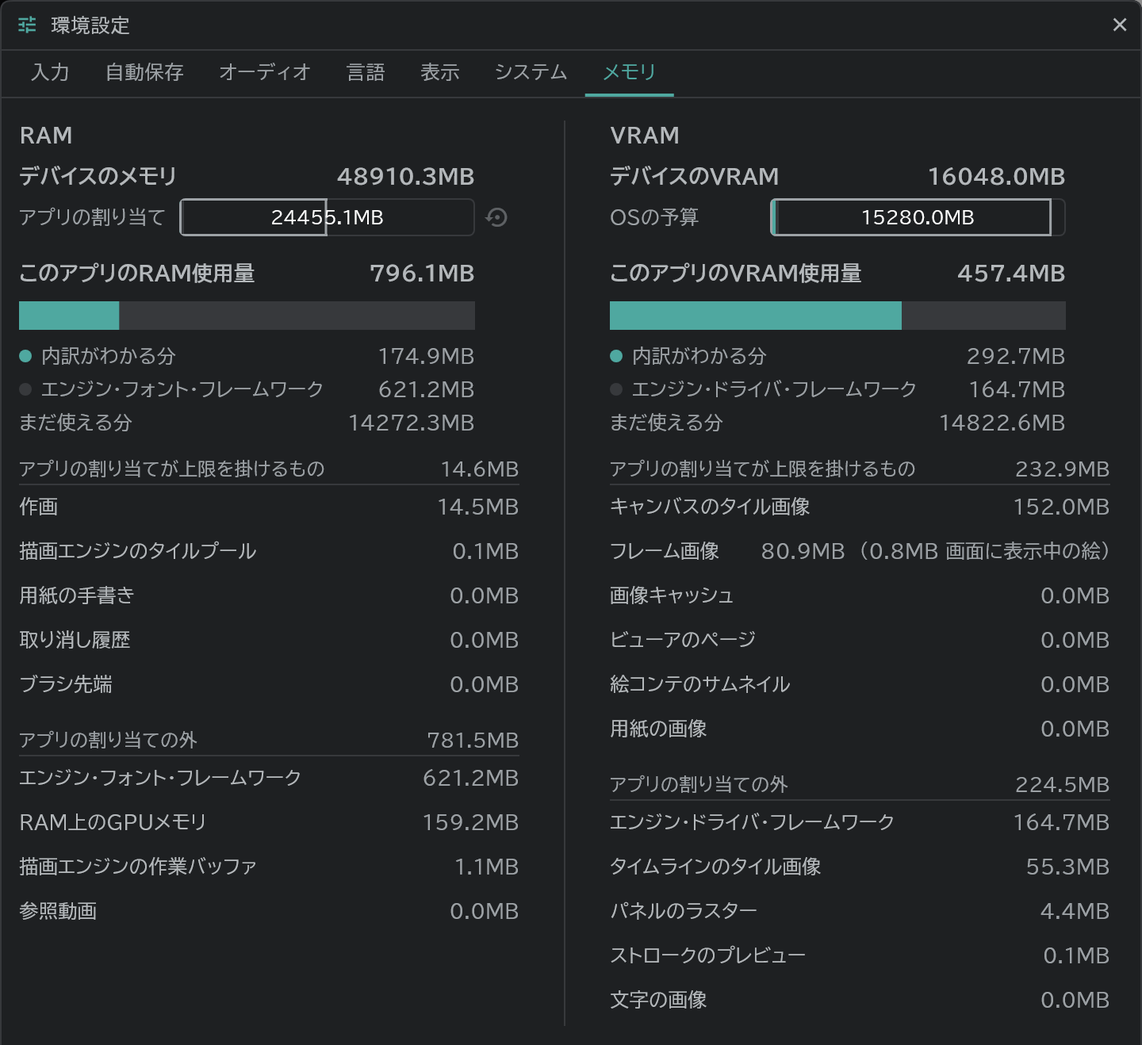
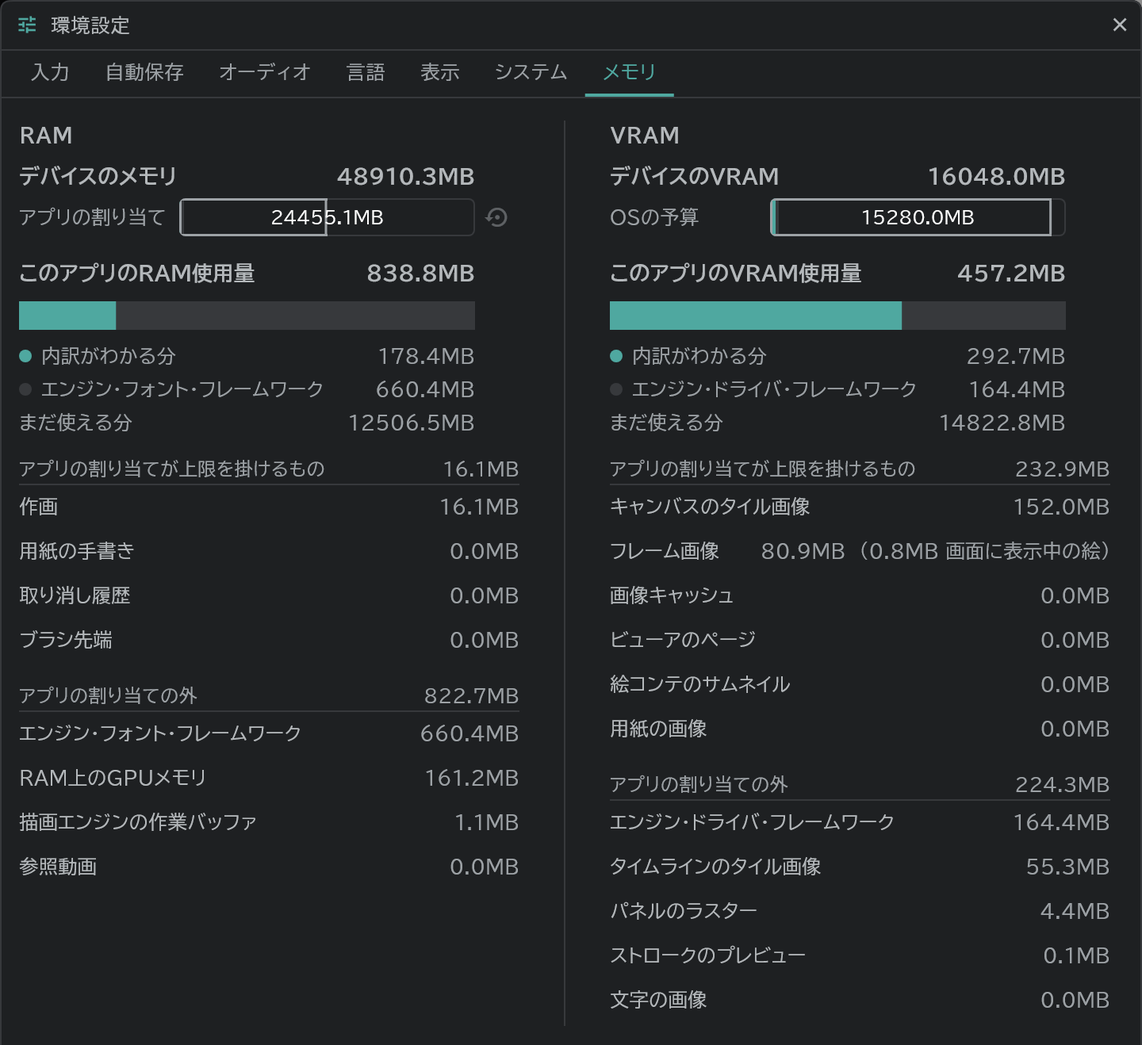
Publish the app's build 1096 on the site
The guide (test/guide_shots: ok) and the launch window's notes
(notes: build 1096), from the app's commit d86f5b420.

diff --git a/launch/latest/ja/whats_new.md b/launch/latest/ja/whats_new.md
@@ -2,47 +2,19 @@
 
 ## 新機能
 
-- **音の行のプリセット** — 音の行の Fx 一覧のいちばん上にプリセット(セリフ・音楽・効果音・環境音)が加わりました。選ぶとその音に合わせた効果のまとまり(イコライザー・コンプレッサーなど)が一度に掛かり、掛けたあとはその行のものなので値を変えられます。
-- **ノイズ除去** — 音の行の Fx メニューの音声の欄にノイズ除去が加わりました。値ひとつで、ノイズを除いた音をどれだけ混ぜるかを決めます。追加した直後は 0 なので音を変えません。44.1 kHz・96 kHz の音にも掛かります。
-- **プリセットに同期** — メディアプールでファイルの使用中マークを押して開くウィンドウに「プリセットに同期」が加わりました。すでに置いた場所のうち配置プリセットと違うところを選んで、開始・長さ・フィットなどの値をプリセットどおりにそろえ、「すべて適用」で違うところ全部を一度にそろえます。音・動画・画像のどれでも使えます。
-- **カンバスサイズに合わせて絵をフィット** — カンバスサイズのウィンドウと、カンバス上で調整するときのピルで、絵を新しいカンバスに「比率を保って伸ばす」・「比率を無視して伸ばす」で合わせられます。既定はこれまでどおり絵をそのままにします。
-- **複数カットのカンバスサイズ** — カットブロックを複数選んでカンバスサイズを変えると、選んだカットがすべて一度に変わります。元に戻すも一回です。
-- **レイヤーの種類の切り替え** — 絵の行の種類アイコンを押すと、画像・アニメーション・絵コンテの間で行の種類を切り替えます。その行がなれない種類は無効で表示されます。複数の行を選んだまま押すと、選んだ行すべてが切り替わります。レイヤーメニューにあった絵コンテの切り替えは、このボタンに移しました。
-- **前エッジで間引く** — フレームブロックの前エッジを後ろへ引くと、引いたコマ数に応じてブロックを間引きます(1コマなら 1・3・5・7…、2コマなら 1・4・7…)。コンテパネルでカットの前エッジをカットの終わりの先まで引くと、そのカットが削除されます。
-- **スタンプの間隔** — スタンプツールの設定に「間隔」が加わりました。切り取った絵の大きさに対する割合で、既定は絵ひとつぶんです。
-- **セル書き出しの動画のサイズ** — 書き出しウィンドウのセルタブの動画に「サイズ」(カメラ・キャンバス)が加わりました。既定はカメラです。
-- **XDTS の対象** — タイムシート書式で XDTS を選ぶと、その下で書き出す対象(原画・動画)を選べます。片方だけ選ぶと、そちらだけを書き出します。
+- **入力インスペクタの Wintab 記録** — Windows で Wintab からペンを受け取り始めるときにたどった段階が、入力インスペクタ(Debug メニュー)に残ります。ペンが止まったときは、その記録でどこで止まったかを確かめられます。
 
 ## 改善
 
-- **軽くなったアプリ** — 再生用の絵を先に焼いているあいだ(緑の帯がたまるあいだ)操作が引っかかる問題、タイムラインでホイールを回したりレイヤーの目を切り替えたりするときの重さ、線を描くたびにグラフィックエンジンを待っていた分を減らしました。セル番号 fx の掛かったカット、fx の値をドラッグしているあいだ、大きな .anicel を開くときの最後の止まり、.tvpp を開いているあいだも軽くなりました。プロジェクトを開いて最初にフレームを選んだときに、タイムラインをまるごと描き直していた問題もなくしました。
-- **ブラーの値のドラッグ** — ブラーの値をドラッグし始めたときに画面が一瞬止まる問題を減らし、ドラッグ中も引っかかりにくくなりました。
-- **一時メモリ** — ブラーなどのエフェクトの値をドラッグしているあいだと、フォルダ内の複数の行を変形ボックスでドラッグしているあいだ、グラフィックエンジンが一歩ごとに一時メモリを作り直さずに使い回します。手を止めると、その一時メモリをすべて返します。
-- **変形ボックスを開く** — Ctrl+T で変形ボックスを開くときに、グラフィックエンジンを待つ回数とマスを何度も調べ直す処理を減らしました。
-- **色を選んでいるあいだ** — レーンと用紙・背景・ペーストボードのカラーホイールを回しているあいだは色がすぐに見え、ウィンドウを閉じたときに一度だけ記録されます。元に戻すも一回です。
-- **スタンプのドラッグ** — ドラッグして並べたスタンプは Ctrl+Z 一回ですべて戻ります。複数のセルにまたがるスタンプは待機ウィンドウの裏で置きます。
-- **連続塗りとスタンプのドラッグ** — 画面が一瞬止まっても、そのあいだに通った領域を漏らさず塗り、スタンプの列も通った道をそのままたどります。
-- **コンテ用紙のカメラ指示** — 2つのパネルにまたがるカメラワークは、パネルごとに自分の区間を書きます(例: 1f-73f T.B・74f-144f T.B)。パネルがひとつのカットは、タイムシートと同じ言葉でカット全体を書きます。
-- **セルの書き出し** — 名前のない絵コンテのブロックも、次の空いている番号でファイル名を付けて書き出します(プロジェクトのブロック名はそのままです)。カラーラベルで絞り込むと、ラベルのない行は書き出しリストから外れます。書き出しウィンドウの折りたたみ欄は、はじめから開いています。
-- **床のパネルの表示ショートカット** — 床に敷いたタイムシートやビューアーでも、拡大・縮小・回転のショートカットが効きます。
-- **S 行への貼り付け** — 通常のレイヤーでコピーしたフレームは S 行に、S 行でコピーしたものは通常のレイヤーに貼り付けません。そのときは貼り付けボタンが無効になります。
-- **TVPaint の読み込み** — .tvpp に記録された場所に音のファイルがないときは、そのファイルのフォルダーの下から探して読み込みます。ハングル・かななどのレイヤーのインスタンス名がそのまま入り、レイヤーの合成モード(乗算など)も読み込みます。
-- **グラフィックデバイスが止まったとき** — Windows で画面を描くグラフィックデバイスが止まると、「保存して再起動」・「保存せずに終了」・閉じる、から選ぶウィンドウが出ます。
-- **メディアプールのスクロールバー** — メディアプールのスクロールバーが、リスト表示・アイコン表示のどちらでも常に表示されます。
-- **ツールの一覧** — ツール設定パネルのツール名は1行で表示し、入りきらないときは省略記号で縮めます。縮めた名前はツールチップで全部見られます。
+- **初回起動時のアプリ準備** — 新しいビルドを初めて起動したときに長くなっていた「アプリ準備」の画面が、11月13日ごろの長さに戻りました。2回目以降の起動はこれまでどおり短いままです。
+- **読み込んだ絵のメモリ** — .tvpp などを読み込むと、絵が届くそばからセッション作業領域(ディスク)に下ろされ、RAM を空けます。キャンバスが立っているフレームの絵はそのまま残します。絵が220枚の .tvpp を開いておくと、「このアプリのRAM使用量」が 2.26 GB から 0.96 GB になりました(メイン PC)。そのかわり読み込みが2秒ほど長くかかります。
+- **直したセルのメモリ** — ファイルを開いたあと緑の帯が一度たまったフレームのセルに線を引くと、メモリタブの「作画」はセル1枚分ではなく、引いた部分の分だけ増えます。ファイルを開いたときに立っていたフレームのセルは、まだこれまでと同じです。
+- **たくさん直したあとの保存** — セルをたくさん直したあとの保存中に、アプリのメモリが大きく増えていたのを抑えました。セル220枚を直したあとの保存で 2.0–2.3 GB 増えていたものが、0.64 GB ほどの増加になります(メイン PC)。
+- **タイルプール** — 描画エンジンは手放したタイルのメモリを使い回すために溜めておかず、すぐに返します。メモリタブの「描画エンジンのタイルプール」の行はなくなりました。
+- **フォント** — グラフィックエンジンがアプリに入っているフォントファイルをコピーせず、その場で読みます。Windows で「このアプリのRAM使用量」が約 24 MB 減りました。Android はこれまでと同じです。
+- **フレーム画像** — 手を止めると再生用のフレーム画像もたたんでグラフィックメモリを減らし、メモリタブの「フレーム画像」の行は実際に持っている大きさを示します。たたんで空いた分だけ緑の帯がさらにたまります。
+- **ショートカットのコマンドキー** — どの機器にどのキーボードをつないでも、ショートカットのコマンドキーは Ctrl で押しても ⌘(Windows キーボードでは Win キー)で押しても同じ動作をします。設定はいりません。Mac でも Ctrl+Z で取り消せます。
 
 ## 不具合の修正
 
-- 変形ボックスの操作を元に戻すですべて戻しても変更が残り、選択の点線が赤いまま残る問題を修正しました。
-- 取り消し履歴が上限まで埋まったあと、スタンプのドラッグのような何段階にも分かれる操作が一回で戻らない問題を修正しました。
-- スタンプをドラッグして置くとき、最後のスタンプが抜ける問題を修正しました。
-- 複数のブロックを選んでコマを伸ばすなど、まとめて編集したときに選択の四角がブロックについてこない問題を修正しました。
-- 編集で緑の帯が空いた場所へフレームを移すと、絵は見えるのに帯がたまり直さない問題を修正しました。
-- カンバスサイズの変更で基準点が動くとき、効果の点(放射ブラーの中心・セル番号の位置など)が絵についてこない問題を修正しました。
-- ブラーの値をドラッグしているあいだメモリが数 GB ずつ増え、ブラーを消しても戻らない問題を修正しました。
-- 書き出しウィンドウのプレビューでフレームを移すと次の絵が来るまで黒い画面が見える問題、出たばかりの読み込みリングが小さな点に見える問題を修正しました。
-- 書き出しウィンドウで XDTS のシートを動画だけにすると、空の画面に見える問題を修正しました。
-- ノイズ抑制をオンにして録音したテイクが少し遅れて置かれ、口の動きとずれる問題を修正しました。
-- 複数のブロックの色を消すとき、進行ウィンドウが止まって見える問題を修正しました。いまはパーセントが進みます。
-- メディアプールのリストを横の端までスクロールしたままパネルを広げると、欄とスクロールバーがずれたまま残る問題を修正しました。
-- サブツールの一覧を開いたままだと、ツール設定パネルの下の行(連続塗り・グラデーションなど)が切れてスクロールしても届かない問題を修正しました。
+- ビューアを出したまま別のプロジェクトタブ(既存のタブ・Ctrl+N で作ったタブ)に移って戻ると、ページ番号はそのままなのに絵は最初のページが見えていた問題を修正しました。メイン・サブのどちらのビューアも、見ていたページとズームのまま戻ります。

diff --git a/launch/latest/fr/whats_new.md b/launch/latest/fr/whats_new.md
@@ -2,47 +2,19 @@
 
 ## Nouveau
 
-- **Préréglages des lignes de son** — le haut de la liste Fx d'une ligne de son propose des préréglages (Dialogue, Musique, Effets sonores, Ambiance). En choisir un pose d'un coup sur la ligne un ensemble d'effets accordé à ce son (un égaliseur, un compresseur, etc.) ; ensuite, ils appartiennent à la ligne et leurs valeurs se modifient.
-- **Réduction du bruit** — la section Audio du menu Fx d'une ligne de son gagne la Réduction du bruit. Une seule valeur règle la part du son nettoyé que l'on entend ; tout juste ajoutée, elle vaut 0 et ne change pas le son. Elle fonctionne aussi sur des sons à 44,1 kHz et 96 kHz.
-- **Synchroniser au préréglage** — la fenêtre qu'ouvre la marque « en usage » d'un fichier dans la médiathèque gagne « Synchroniser au préréglage ». Choisissez parmi les emplacements déjà posés ceux qui diffèrent du préréglage de placement du fichier pour ramener le début, la durée, l'ajustement, etc. au préréglage, ou utilisez « Appliquer à tous » pour tous ceux qui diffèrent. Cela marche pour les sons, les vidéos et les images.
-- **Ajuster l'image à la nouvelle taille du canevas** — la fenêtre Taille du canevas, et la pastille de l'ajustement sur le canevas, peuvent ajuster l'image au nouveau canevas avec « Ajuster, proportions gardées » ou « Étirer, proportions ignorées ». Par défaut, l'image reste telle quelle, comme avant.
-- **Taille du canevas de plusieurs plans** — sélectionnez plusieurs blocs de plan et changez la taille du canevas : tous les plans sélectionnés changent d'un coup, en une seule annulation.
-- **Changer le type d'un calque** — appuyez sur l'icône de type d'une ligne d'image pour la faire passer entre Image, Animation et Storyboard. Un type que la ligne ne peut pas prendre est affiché désactivé. Appuyé parmi plusieurs lignes sélectionnées, il les change toutes. La bascule storyboard du menu Calque est passée à ce bouton.
-- **Éclaircir avec le bord avant** — tirer vers l'arrière le bord avant d'un bloc d'images éclaircit les blocs selon le nombre d'images tirées (une image : 1, 3, 5, 7… ; deux images : 1, 4, 7…). Dans le panneau de conte, tirer le bord avant d'un plan au-delà de sa fin supprime le plan.
-- **Espacement du tampon** — les réglages de l'outil Tampon gagnent un Espacement, en part de la taille du morceau ; un morceau entier par défaut.
-- **Taille des vidéos de l'export des cellulos** — les vidéos de l'onglet Cellulos de la fenêtre d'export gagnent une Taille (Caméra, Canevas). Caméra par défaut.
-- **Cible XDTS** — avec XDTS choisi dans le format de feuille d'exposition, la cible à exporter (animation clé, intervalles) se choisit en dessous. Si vous n'en choisissez qu'une, seule celle-ci est écrite.
+- **Le relevé Wintab dans l'Inspecteur d'entrée** — sous Windows, les étapes par lesquelles l'application est passée en commençant à recevoir le stylet par Wintab sont gardées dans l'Inspecteur d'entrée (menu Debug). Si le stylet s'arrête, ce relevé montre où il s'est arrêté.
 
 ## Améliorations
 
-- **Une application plus légère** — moins d'à-coups pendant le précalcul des images de lecture (pendant que la bande verte se remplit), une molette et des bascules d'œil de calque plus légères sur la timeline, et plus d'attente du moteur graphique à chaque trait. Les plans avec un fx de numéro de cellulo, le glissement d'une valeur de fx, l'arrêt à la fin de l'ouverture d'un gros .anicel et l'ouverture d'un .tvpp sont aussi plus légers. Le premier choix d'image après l'ouverture d'un projet ne redessine plus toute la timeline.
-- **Glisser une valeur de flou** — l'écran se fige moins quand on commence à faire glisser une valeur de flou, et moins pendant le glissement.
-- **Mémoire temporaire** — pendant le glissement d'une valeur d'effet comme le flou, et pendant le glissement de plusieurs lignes d'un dossier avec la boîte de transformation, le moteur graphique réutilise sa mémoire temporaire au lieu de la recréer à chaque pas, et la rend entièrement dès que la main se repose.
-- **Ouvrir la boîte de transformation** — ouvrir la boîte de transformation avec Ctrl+T attend moins souvent le moteur graphique et parcourt moins de fois les cellules.
-- **Pendant le choix d'une couleur** — tourner la roue chromatique d'une piste, ou celle du papier, de l'arrière-plan ou du Fond, montre la couleur à mesure et ne l'enregistre qu'une fois, à la fermeture de la fenêtre, en une seule annulation.
-- **Tampons par glissement** — une rangée de tampons posée d'un seul glissement s'annule d'un seul Ctrl+Z. Les tampons sur plusieurs cellulos se posent derrière la fenêtre d'attente.
-- **Remplissage continu et tampons par glissement** — même si l'écran se fige un instant, chaque zone traversée entre-temps est remplie, et la rangée de tampons suit le chemin tel qu'il a été tracé.
-- **Instructions de caméra sur le papier de conte** — un mouvement de caméra partagé par deux cases est écrit dans chaque case pour sa propre part (par exemple 1f-73f T.B et 74f-144f T.B). Un plan d'une seule case écrit le plan entier avec les mêmes mots que sa feuille d'exposition.
-- **Export des cellulos** — un bloc de storyboard sans nom s'exporte quand même, sous le prochain numéro libre (le nom du bloc dans le projet ne change pas). Filtrer par étiquette de couleur retire de la liste d'export les lignes sans étiquette. Les sections repliables de la fenêtre d'export commencent ouvertes.
-- **Raccourcis d'affichage sur le panneau de fond** — les raccourcis de zoom et de rotation fonctionnent aussi sur une feuille d'exposition ou une visionneuse posée au fond.
-- **Coller dans les lignes S** — des images copiées d'un calque ordinaire ne se collent pas dans une ligne S, ni celles d'une ligne S dans un calque ordinaire ; les boutons de collage se désactivent alors.
-- **Import TVPaint** — quand un fichier son n'est pas à l'endroit enregistré dans le .tvpp, il est cherché sous le dossier du fichier. Les noms d'instance de calque en hangeul, en kana ou en d'autres lettres arrivent tels quels, et le mode de fusion de chaque calque (Produit, etc.) aussi.
-- **Quand le périphérique graphique s'arrête** — sous Windows, si le périphérique graphique qui dessine l'écran s'arrête, une fenêtre propose « Enregistrer et redémarrer », « Quitter sans enregistrer » ou fermer.
-- **Barres de défilement de la médiathèque** — les barres de défilement de la médiathèque sont toujours affichées, en vue liste comme en vue icônes.
-- **La liste des outils** — les noms d'outils du panneau des réglages de l'outil tiennent sur une ligne, coupés par des points de suspension s'ils ne tiennent pas ; l'infobulle montre le nom entier.
+- **Préparation de l'application au premier lancement** — la fenêtre « Préparation de l'application », qui s'était allongée au premier lancement d'une nouvelle version, retrouve à peu près sa durée d'autour du 13 novembre. Les lancements suivants restent courts comme avant.
+- **Mémoire des dessins importés** — à l'import d'un fichier comme un .tvpp, chaque dessin est déposé dans l'Espace de session (le disque) dès son arrivée et libère sa RAM. Les dessins de l'image sur laquelle se tient le canevas restent tels quels. Avec un .tvpp de 220 dessins ouvert, « Cette application, en RAM » est passée de 2,26 Go à 0,96 Go (le PC principal). En échange, l'import prend environ deux secondes de plus.
+- **Mémoire d'un cellulo modifié** — après l'ouverture d'un fichier, un trait sur un cellulo d'une image que la bande verte a remplie une fois ne fait grandir « Dessins » dans l'onglet mémoire que de la partie tracée, et non du cellulo entier. Les cellulos de l'image où l'on se tenait à l'ouverture du fichier restent comme avant pour l'instant.
+- **Enregistrer après de nombreuses retouches** — la mémoire de l'application monte beaucoup moins pendant l'enregistrement après la retouche de nombreux cellulos. L'enregistrement après la retouche de 220 cellulos montait de 2,0 à 2,3 Go ; il monte maintenant d'environ 0,64 Go (le PC principal).
+- **Réserve de tuiles** — le moteur de dessin ne met plus de côté la mémoire des tuiles qu'il a libérées pour la réutiliser, et la rend tout de suite. La ligne « Réserve de tuiles du moteur de dessin » de l'onglet mémoire a disparu.
+- **Polices** — le moteur graphique lit les polices fournies avec l'application là où elles se trouvent, sans en garder une copie. Sous Windows, « Cette application, en RAM » a baissé d'environ 24 Mo. Android reste comme avant.
+- **Images composées** — dès que la main se repose, les images composées de la lecture sont elles aussi repliées et prennent moins de mémoire graphique, et la ligne « Images composées » de l'onglet mémoire montre la taille qu'elles occupent vraiment. La bande verte se remplit d'autant plus dans la place libérée.
+- **La touche de commande des raccourcis** — quel que soit le clavier branché sur quel appareil, la touche de commande d'un raccourci fait la même chose qu'on l'appuie en Ctrl ou en ⌘ (la touche Win d'un clavier Windows). Il n'y a rien à régler. Ctrl+Z annule aussi sur Mac.
 
 ## Corrections
 
-- Après avoir annulé chaque étape d'une boîte de transformation, une modification restait retenue et le contour de la sélection restait rouge.
-- Une fois l'historique d'annulation plein, les gestes faits de plusieurs étapes, comme un glissement de tampons, ne s'annulaient plus en une fois.
-- Un glissement de tampons pouvait perdre le dernier tampon.
-- En modifiant plusieurs blocs sélectionnés à la fois, par exemple en allongeant leurs images, le rectangle de sélection ne suivait pas les blocs.
-- Aller sur une image dont une modification avait vidé la bande verte montrait l'image, mais la bande ne se remplissait plus.
-- Quand un changement de taille du canevas déplaçait l'ancre, les points des effets (le centre d'un flou radial, la place d'un numéro de cellulo, etc.) ne suivaient pas l'image.
-- Faire glisser une valeur de flou faisait grimper la mémoire de plusieurs gigaoctets, qui ne revenait pas une fois le flou retiré.
-- Dans l'aperçu de la fenêtre d'export, passer d'une image à l'autre montrait un écran noir jusqu'à l'image suivante, et un nouvel anneau de chargement apparaissait comme un petit point.
-- Dans la fenêtre d'export, une feuille XDTS avec seulement les intervalles choisis s'affichait comme un écran vide.
-- Une prise enregistrée avec la réduction du bruit activée était posée un peu en retard, décalée de la bouche.
-- Supprimer des couleurs sur plusieurs blocs donnait une fenêtre de progression qui semblait figée ; le pourcentage se remplit désormais.
-- Élargir le panneau pendant que la liste de la médiathèque était défilée jusqu'au bout laissait les colonnes et la barre de défilement décalées.
-- Avec la liste des sous-outils ouverte, les lignes du bas du panneau des réglages de l'outil (remplissage continu, dégradé, etc.) étaient coupées et inaccessibles au défilement.
+- Avec une visionneuse ouverte, aller dans un autre onglet de projet (un onglet existant ou un onglet créé avec Ctrl+N) puis revenir gardait le numéro de page mais montrait l'image de la première page. Les visionneuses principale et secondaire reviennent maintenant à la page et au zoom qu'elles montraient.

diff --git a/launch/latest/ko/whats_new.md b/launch/latest/ko/whats_new.md
@@ -2,47 +2,19 @@
 
 ## 새 기능
 
-- **소리 행 프리셋** — 소리 행 Fx 목록 맨 위에 프리셋(대사 · 음악 · 효과음 · 환경음)이 생겼습니다. 고르면 그 소리에 맞춘 효과 묶음(이퀄라이저 · 컴프레서 등)이 한 번에 걸리고, 건 뒤로는 그 행의 것이라 값을 고칠 수 있습니다.
-- **노이즈 제거** — 소리 행 Fx 메뉴의 오디오 칸에 노이즈 제거가 생겼습니다. 값 하나로 잡음을 지운 소리를 얼마나 섞을지 정하며, 막 추가했을 때는 0 이라 소리를 바꾸지 않습니다. 44.1 kHz · 96 kHz 소리에도 겁니다.
-- **프리셋에 동기화** — 미디어 풀에서 파일의 사용 중 표시를 누르면 열리는 창에 「프리셋에 동기화」가 생겼습니다. 이미 놓은 자리 가운데 배치 프리셋과 다른 곳을 골라 시작 · 길이 · 맞춤 같은 값을 프리셋대로 맞추고, 「모두 적용」으로 다른 곳 전부를 한 번에 맞춥니다. 소리 · 동영상 · 그림 모두 됩니다.
-- **캔버스 크기와 함께 그림 맞추기** — 캔버스 크기 창과 캔버스에서 조정하는 알약에서, 그림을 새 캔버스에 「비율 유지 늘림」 · 「비율 무시 늘림」으로 맞출 수 있습니다. 기본은 지금처럼 그림을 그대로 둡니다.
-- **여러 컷의 캔버스 크기** — 컷 블록 여러 개를 고르고 캔버스 크기를 바꾸면 고른 컷이 전부 한 번에 바뀝니다. 되돌리기도 한 번입니다.
-- **레이어 종류 바꾸기** — 그림 행의 종류 아이콘을 누르면 이미지 · 애니메이션 · 콘티 사이에서 행의 종류를 바꿉니다. 그 행이 될 수 없는 종류는 꺼져 보입니다. 여러 행을 고른 채 누르면 고른 행 전부가 바뀝니다. 레이어 메뉴에 있던 콘티 전환은 이 버튼으로 옮겼습니다.
-- **앞엣지로 솎아내기** — 프레임 블록의 앞엣지를 뒤로 당기면 당긴 칸 수만큼 블록을 솎아냅니다(1칸이면 1 · 3 · 5 · 7…, 2칸이면 1 · 4 · 7…). 콘티 패널에서 컷의 앞엣지를 컷 끝 너머로 당기면 그 컷이 지워집니다.
-- **스탬프 간격** — 스탬프 도구 설정에 「간격」이 생겼습니다. 조각 크기에 대한 비율이고, 기본은 조각 하나입니다.
-- **셀 출력 동영상의 크기** — 출력 창 셀 탭의 동영상에 「크기」(카메라 · 캔버스)가 생겼습니다. 기본은 카메라입니다.
-- **XDTS 의 대상** — 타임시트 서식에서 XDTS 를 고르면 그 아래에서 내보낼 대상(원화 · 동화)을 고릅니다. 하나만 고르면 그 쪽만 냅니다.
+- **입력 인스펙터의 Wintab 기록** — Windows 에서 Wintab 으로 펜을 받기 시작할 때 거친 단계가 입력 인스펙터(Debug 메뉴)에 남습니다. 펜이 멈추면 그 기록으로 어디서 섰는지 볼 수 있습니다.
 
 ## 개선
 
-- **가벼워진 앱** — 재생 그림을 미리 굽는 동안(초록 띠가 차는 동안) 조작이 걸리던 것, 타임라인에서 휠을 굴리거나 레이어 눈을 켜고 끌 때 무겁던 것, 획을 그을 때마다 그래픽 엔진을 기다리던 것을 줄였습니다. 셀 번호 fx 가 걸린 컷, fx 값을 끄는 동안, 큰 .anicel 을 열 때 끝의 멈춤, .tvpp 를 여는 동안도 가벼워졌습니다. 프로젝트를 열고 처음 프레임을 고를 때 타임라인을 통째로 다시 그리던 것도 없앴습니다.
-- **블러 값 끌기** — 블러 값을 끌기 시작할 때 화면이 멈칫하던 것을 줄였고, 끄는 동안에도 덜 걸립니다.
-- **임시 메모리** — 블러 같은 효과 값을 끄는 동안과 폴더 안의 여러 행을 변형 상자로 끄는 동안, 그래픽 엔진이 걸음마다 임시 메모리를 새로 만들지 않고 다시 씁니다. 손을 쉬면 그 임시 메모리를 모두 돌려줍니다.
-- **변형 상자 열기** — Ctrl+T 로 변형 상자를 열 때 그래픽 엔진을 기다리던 횟수와 칸을 거듭 훑던 일을 줄였습니다.
-- **색을 고르는 동안** — 레인과 용지 · 배경 · 페이스트보드의 컬러 휠을 돌리는 동안 색이 바로 보이고, 창을 닫을 때 한 번만 기록됩니다. 되돌리기도 한 번입니다.
-- **스탬프 끌기** — 끌어서 늘어놓은 스탬프는 Ctrl+Z 한 번에 다 되돌아갑니다. 여러 셀에 걸친 스탬프는 대기 창 뒤에서 놓습니다.
-- **연속 채우기와 스탬프 끌기** — 화면이 잠깐 멈춰도 그 사이 지나간 칸을 빠짐없이 칠하고, 스탬프 줄도 지나간 길을 그대로 따릅니다.
-- **콘티 용지의 카메라 지시** — 두 패널에 걸친 카메라 워크는 패널마다 제 구간을 적습니다(예: 1f-73f T.B · 74f-144f T.B). 패널이 하나인 컷은 타임시트와 같은 말로 컷 전체를 적습니다.
-- **셀 출력** — 이름 없는 콘티 블록도 다음 빈 번호로 파일 이름을 붙여 냅니다(프로젝트의 블록 이름은 그대로입니다). 색 라벨로 거르면 라벨 없는 행은 출력 목록에서 빠집니다. 출력 창의 접는 칸은 처음부터 펼쳐져 있습니다.
-- **바닥 패널의 보기 단축키** — 바닥에 깐 타임시트나 뷰어에서도 확대 · 축소 · 회전 단축키가 듣습니다.
-- **S 행 붙여넣기** — 일반 레이어에서 복사한 프레임은 S 행에, S 행에서 복사한 것은 일반 레이어에 붙여넣지 않습니다. 그럴 때는 붙여넣기 버튼이 꺼집니다.
-- **TVPaint 가져오기** — .tvpp 에 적힌 자리에 소리 파일이 없으면 그 파일의 폴더 아래에서 찾아 넣습니다. 한글 · 가나 같은 레이어 인스턴스 이름이 그대로 들어오고, 레이어의 블렌드 모드(곱하기 등)도 들어옵니다.
-- **그래픽 장치가 멈췄을 때** — Windows 에서 화면을 그리는 그래픽 장치가 멈추면 「저장하고 다시 시작」 · 「저장하지 않고 종료」 · 닫기 가운데 하나를 고르는 창이 뜹니다.
-- **미디어 풀 스크롤바** — 미디어 풀의 스크롤바가 리스트 보기 · 아이콘 보기 모두 늘 보입니다.
-- **도구 목록** — 툴 설정 패널의 도구 이름이 한 줄에 서고, 넘치면 말줄임표로 줄입니다. 줄인 이름은 툴팁으로 다 보입니다.
+- **처음 켤 때의 앱 준비** — 새 빌드를 처음 켤 때 길어졌던 「앱 준비」 창이 11월 13일 무렵 길이로 돌아왔습니다. 두 번째 실행부터는 전처럼 짧습니다.
+- **들여온 그림의 메모리** — .tvpp 같은 파일을 들여오면 그림이 들어오는 대로 세션 작업 공간(디스크)으로 내려가고 RAM 을 놓습니다. 캔버스가 서 있는 프레임의 그림은 그대로 둡니다. 그림 220장짜리 .tvpp 를 열어 두면 「이 앱이 쓰는 RAM」이 2.26 GB 에서 0.96 GB 가 됐습니다(메인 PC). 대신 들여오기가 2초쯤 더 걸립니다.
+- **고친 셀의 메모리** — 파일을 연 뒤 초록 띠가 한 번 찬 프레임의 셀에 획을 그으면, 메모리 탭의 「그림」이 셀 한 장만큼이 아니라 그은 부분만큼만 늡니다. 파일을 열 때 서 있던 프레임의 셀은 아직 전과 같습니다.
+- **많이 고친 뒤의 저장** — 셀을 많이 고친 뒤 저장하는 동안 앱의 메모리가 크게 오르던 것을 줄였습니다. 셀 220장을 고친 뒤 저장할 때 2.0–2.3 GB 오르던 것이 0.64 GB 쯤 오릅니다(메인 PC).
+- **타일 풀** — 그리기 엔진이 놓은 타일 메모리를 다시 쓰려고 쌓아 두지 않고 바로 돌려줍니다. 메모리 탭의 「그리기 엔진 타일 풀」 줄은 없어졌습니다.
+- **글꼴** — 그래픽 엔진이 앱에 든 글꼴 파일을 복사해 두지 않고 그 자리에서 읽습니다. Windows 에서 「이 앱이 쓰는 RAM」이 약 24 MB 줄었습니다. 안드로이드는 전과 같습니다.
+- **프레임 이미지** — 손을 쉬면 재생용 프레임 이미지도 접어 그래픽 메모리를 줄이고, 메모리 탭의 「프레임 이미지」 줄은 실제로 쥔 크기를 보입니다. 접어서 생긴 자리만큼 초록 띠가 더 찹니다.
+- **단축키의 명령 키** — 어느 기기에 어느 키보드를 붙여도, 단축키의 명령 키를 Ctrl 로 눌러도 ⌘(Windows 키보드의 Win 키)로 눌러도 같은 일을 합니다. 설정은 따로 없습니다. 맥에서도 Ctrl+Z 가 실행 취소입니다.
 
 ## 버그 수정
 
-- 변형 상자의 걸음을 실행 취소로 다 되돌렸는데도 바뀐 것이 남아 선택 점선이 빨갛게 남던 것을 고쳤습니다.
-- 되돌리기 기록이 상한까지 찬 뒤에는 스탬프 끌기 같은 여러 걸음 조작이 한 번에 되돌아가지 않던 것을 고쳤습니다.
-- 스탬프를 끌어 놓을 때 끝의 도장이 빠지던 것을 고쳤습니다.
-- 여러 블록을 고르고 코마를 늘리는 식으로 한꺼번에 고칠 때 선택 사각형이 블록을 따라가지 않던 것을 고쳤습니다.
-- 편집으로 초록 띠가 비워진 자리로 프레임을 옮기면 그림은 보이는데 띠가 다시 차지 않던 것을 고쳤습니다.
-- 캔버스 크기를 바꿔 기준점이 옮겨질 때 효과의 점(방사형 흐림의 중심 · 셀 번호 자리 등)이 그림을 따라가지 않던 것을 고쳤습니다.
-- 블러 값을 끄는 동안 메모리가 몇 GB 씩 늘고 블러를 지워도 돌아오지 않던 것을 고쳤습니다.
-- 출력 창 미리보기에서 프레임을 옮길 때 다음 그림이 오기 전까지 검은 화면이 보이던 것, 새로 뜬 로딩 링이 작은 점으로 보이던 것을 고쳤습니다.
-- 출력 창에서 XDTS 시트를 동화만 고르면 빈 화면으로 보이던 것을 고쳤습니다.
-- 잡음 제거를 켜고 녹음한 테이크가 약간 늦게 놓여 입 모양과 어긋나던 것을 고쳤습니다.
-- 여러 블록의 색을 지울 때 진행 창이 멈춰 보이던 것을 고쳤습니다. 이제 퍼센트가 찹니다.
-- 미디어 풀 리스트를 옆으로 끝까지 민 채 패널을 넓히면 칸과 스크롤바가 밀린 채 남던 것을 고쳤습니다.
-- 세부 도구 목록을 연 채로 툴 설정 패널의 아래 행(연속 채우기 · 그라데이션 등)이 잘려 스크롤로도 닿지 않던 것을 고쳤습니다.
+- 뷰어를 띄운 채 다른 프로젝트 탭(있던 탭 · Ctrl+N 으로 만든 탭)에 갔다 돌아오면, 쪽 번호는 그대로인데 그림은 첫 쪽이 보이던 것을 고쳤습니다. 이제 메인 · 서브 뷰어 모두 보던 쪽과 줌 그대로 돌아옵니다.

diff --git a/launch/latest/en/whats_new.md b/launch/latest/en/whats_new.md
@@ -2,47 +2,19 @@
 
 ## New
 
-- **Sound row presets** — the top of a sound row's Fx list offers presets (Dialogue, Music, Sound effects, Ambience). Picking one puts a set of effects tuned for that sound (an equalizer, a compressor and so on) on the row at once; after that they are the row's own, and their values can be changed.
-- **Noise removal** — the Audio section of a sound row's Fx menu gains Noise removal. One value sets how much of the cleaned sound is heard; just added, it is 0 and leaves the sound unchanged. It works on 44.1 kHz and 96 kHz sound too.
-- **Sync to preset** — the window that opens from a file's in-use mark in the media pool gains "Sync to preset". Pick the places already laid that differ from the file's placement preset and bring values such as start, length and fit back to the preset, or use "Apply to all" for every place that differs. It works for sounds, movies and pictures alike.
-- **Fit the picture to a new canvas size** — the Canvas size window, and the pill when adjusting on the canvas, can fit the picture to the new canvas with "Fit, keep ratio" or "Stretch, ignore ratio". By default the picture stays as it is, as before.
-- **Canvas size for several cuts** — select several cut blocks and change the canvas size, and every selected cut changes at once, in one undo step.
-- **Changing a layer's kind** — press a picture row's kind icon to turn the row between Image, Animation and Storyboard. A kind the row cannot become is shown disabled. Press it among several selected rows and they all change. The Layer menu's storyboard toggle has moved to this button.
-- **Thinning with the lead edge** — pulling a frame block's lead edge backwards thins the blocks out by the frames pulled (one frame: 1, 3, 5, 7…; two frames: 1, 4, 7…). In the conte panel, pulling a cut's lead edge past the cut's end deletes the cut.
-- **Stamp spacing** — the stamp tool's settings gain Spacing, a share of the piece's size; one whole piece by default.
-- **Size of cel export movies** — movies on the export window's Cels tab gain a Size (Camera, Canvas). Camera is the default.
-- **XDTS target** — with XDTS picked in the timesheet format, the target to export (key drawings, in-betweens) is picked below it. Pick one and only that is written.
+- **The Wintab record in the Input Inspector** — on Windows, the steps the app went through as it began taking the pen from Wintab are kept in the Input Inspector (the Debug menu). If the pen stops, that record shows where it stopped.
 
 ## Improved
 
-- **A lighter app** — less hitching while playback pictures are baked ahead (while the green band fills), lighter mouse-wheel scrolling and layer eye toggles on the timeline, and no more waiting on the graphics engine at every stroke. Cuts with a cel number fx, dragging an fx value, the stall at the end of opening a large .anicel, and opening a .tvpp are lighter too. The first frame pick after opening a project no longer redraws the whole timeline.
-- **Dragging a blur value** — the screen hitches less as a blur value starts to be dragged, and less while it is dragged.
-- **Temporary memory** — while an effect value such as blur is dragged, and while several rows inside a folder are dragged with the transform box, the graphics engine reuses its temporary memory instead of making it anew at every step, and gives all of it back once your hand rests.
-- **Opening the transform box** — opening the transform box with Ctrl+T waits on the graphics engine fewer times and walks the cells fewer times.
-- **While picking a color** — turning the color wheel of a lane, or of the paper, the backdrop or the pasteboard, shows the color as it goes and records it once, when the window closes, as one undo step.
-- **Stamp drags** — a row of stamps laid by one drag goes back with a single Ctrl+Z. Stamps across several cels are laid behind the wait window.
-- **Continuous fill and stamp drags** — even if the screen stalls for a moment, every region passed meanwhile is filled, and a row of stamps follows the path as drawn.
-- **Camera instructions on the conte paper** — a camera move shared by two panels is written in each panel for its own part (for example 1f-73f T.B and 74f-144f T.B). A cut of one panel writes the whole cut in the same words as its timesheet.
-- **Cel export** — a storyboard block with no name is still exported, filed under the next free number (the block's name in the project stays as it is). Filtering by color label leaves rows with no label out of the export list. The export window's folding sections start open.
-- **View shortcuts on the floor panel** — zoom and rotate shortcuts work on a timesheet or viewer laid on the floor too.
-- **Pasting into S rows** — frames copied from a regular layer are not pasted into an S row, nor S row frames into a regular layer; the paste buttons turn off then.
-- **TVPaint import** — when a sound file is not where the .tvpp recorded it, it is looked for under the file's folder. Layer instance names in Hangul, kana or other letters come in as written, and each layer's blending mode (Multiply and so on) comes in too.
-- **When the graphics device stops** — on Windows, if the graphics device that draws the screen stops, a window offers "Save and restart", "Quit without saving" or close.
-- **Media pool scrollbars** — the media pool's scrollbars are always shown, in the list view and the icon view.
-- **The tool list** — tool names in the tool settings panel stand on one line, cut with an ellipsis when they do not fit; the tooltip shows the whole name.
+- **Preparing the app on the first launch** — the "Preparing app" window, which had grown longer on a new build's first launch, is back to about its length around November 13. Later launches stay short as before.
+- **Memory of imported drawings** — when you import a file such as a .tvpp, each drawing is put down to the session scratch (the disk) as it arrives and lets go of its RAM. The drawings of the frame the canvas stands on stay as they are. With a .tvpp of 220 drawings open, "This app, in RAM" went from 2.26 GB to 0.96 GB (the main PC). In exchange, the import takes about two seconds longer.
+- **Memory of an edited cel** — after opening a file, a stroke on a cel of a frame the green band has filled once grows "Drawings" in the memory tab by only the part you drew, not by the whole cel. Cels of the frame that stood when the file was opened are the same as before for now.
+- **Saving after many edits** — the app's memory no longer climbs as far while saving after many cels were edited. Saving after editing 220 cels used to climb by 2.0–2.3 GB and now climbs by about 0.64 GB (the main PC).
+- **Tile pool** — the drawing engine no longer stores tile memory it let go of to reuse it, and gives it back at once. The "Drawing engine tile pool" row in the memory tab is gone.
+- **Fonts** — the graphics engine reads the fonts bundled with the app where they lie instead of keeping a copy. On Windows, "This app, in RAM" fell by about 24 MB. Android is as before.
+- **Frame pictures** — once your hand rests, the frame pictures for playback are folded too, using less graphics memory, and the "Frame pictures" row in the memory tab shows the size they really hold. The green band fills further into the room the folding made.
+- **The command key of shortcuts** — whatever keyboard is on whatever device, a shortcut's command key does the same whether you press it as Ctrl or as ⌘ (the Win key on a Windows keyboard). There is nothing to set. Ctrl+Z undoes on a Mac too.
 
 ## Fixed
 
-- After undoing every step of a transform box, a change was still held and the selection outline stayed red.
-- Once the undo history was full, gestures made of several steps, such as a stamp drag, no longer went back in one undo.
-- Dragging stamps could drop the last stamp.
-- When editing several selected blocks at once, such as lengthening their frames, the selection rectangle did not follow the blocks.
-- Moving to a frame whose green band an edit had emptied showed the picture, but the band did not fill again.
-- When a canvas size change moved the anchor, effect points (a radial blur's center, a cel number's place and so on) did not follow the picture.
-- Dragging a blur value grew memory by gigabytes, and it did not come back after the blur was removed.
-- In the export window's preview, moving between frames showed a black screen until the next picture came, and a new loading ring showed as a small dot.
-- In the export window, an XDTS sheet with only in-betweens picked showed as a blank screen.
-- A take recorded with noise suppression on was laid slightly late, out of step with the mouth.
-- Deleting colors across several blocks made the progress window look stuck; the percentage now fills.
-- Widening the panel while the media pool list was scrolled to its far side left the columns and scrollbar shifted.
-- With the sub-tool list open, the lower rows of the tool settings panel (continuous fill, gradient and so on) were cut off and could not be scrolled to.
+- With a viewer open, going to another project tab (an existing tab or one made with Ctrl+N) and coming back kept the page number but showed the first page's picture. Both the main and the sub viewer now come back at the page and zoom they showed.

diff --git a/launch/latest/zhHans/whats_new.md b/launch/latest/zhHans/whats_new.md
@@ -2,47 +2,19 @@
 
 ## 新功能
 
-- **声音行预设** — 声音行 Fx 列表的最上方新增预设（对白、音乐、音效、环境音）。选中后会一次性为该行加上针对这种声音调好的一组效果（均衡器、压缩器等）；加上之后它们就属于该行，数值可以修改。
-- **降噪** — 声音行 Fx 菜单的音频栏新增降噪。用一个数值决定听到多少降噪后的声音；刚添加时为 0，不会改变声音。对 44.1 kHz、96 kHz 的声音也有效。
-- **同步到预设** — 在媒体池中点击文件的使用中标记打开的窗口里，新增「同步到预设」。从已经放置的位置中选出与放置预设不同的地方，把开始、长度、适配方式等数值改回预设；用「全部应用」可一次改好所有不同的地方。声音、视频和图像都适用。
-- **随画布尺寸适配图像** — 在画布尺寸窗口，以及在画布上调整时的胶囊中，可以用「保持比例拉伸」或「忽略比例拉伸」把图像适配到新画布。默认与以前一样，图像保持原样。
-- **多个镜头的画布尺寸** — 选中多个镜头块后改变画布尺寸，所选镜头会一次全部改变，撤销也只需一次。
-- **切换图层类型** — 点击图像行的类型图标，可在图像、动画、分镜之间切换该行的类型。该行无法变成的类型显示为不可用。在选中多行的状态下点击，所选的行会全部切换。图层菜单中原有的分镜切换已移到这个按钮。
-- **用前沿抽帧** — 把帧块的前沿往后拖，会按拖动的格数抽掉块（1 格为 1、3、5、7…，2 格为 1、4、7…）。在分镜面板中，把镜头的前沿拖过镜头末尾，会删除该镜头。
-- **图章间距** — 图章工具的设置新增「间距」，以切下的图块大小为比例，默认为一个图块。
-- **赛璐珞导出视频的尺寸** — 导出窗口赛璐珞标签页的视频新增「尺寸」（摄影机、画布），默认为摄影机。
-- **XDTS 的对象** — 在摄影表格式中选择 XDTS 后，可在其下方选择要导出的对象（原画、中割）。只选一个时，只导出那一项。
+- **输入检查器中的 Wintab 记录** — 在 Windows 上，应用开始通过 Wintab 接收手写笔时经过的步骤会保留在输入检查器（Debug 菜单）中。手写笔停住时，可以用这份记录查看停在了哪里。
 
 ## 改进
 
-- **更轻快的应用** — 减少了预先烘焙播放图像时（绿色带填充期间）操作卡顿、在时间轴上滚动鼠标滚轮或切换图层眼睛时的沉重感，以及每画一笔都要等待图形引擎的情况。带有赛璐珞编号 fx 的镜头、拖动 fx 数值时、打开大型 .anicel 时最后的停顿，以及打开 .tvpp 期间也变得更轻快。打开项目后第一次选择帧时，也不再整个重绘时间轴。
-- **拖动模糊数值** — 开始拖动模糊数值时画面的短暂停顿减少了，拖动期间也更少卡顿。
-- **临时内存** — 拖动模糊等效果数值时，以及用变换框拖动文件夹内的多行时，图形引擎会重复使用临时内存，而不是每一步都重新创建；手一停下就全部归还。
-- **打开变换框** — 用 Ctrl+T 打开变换框时，等待图形引擎的次数和反复遍历格子的工作都减少了。
-- **选择颜色期间** — 转动轨道，或纸张、背景、底板的色轮时，颜色会即时显示，并在关闭窗口时只记录一次，撤销也只需一次。
-- **拖动图章** — 一次拖动排出的一列图章，按一次 Ctrl+Z 即可全部撤销。跨多张赛璐珞的图章在等待窗口后放置。
-- **连续填充与拖动图章** — 即使画面短暂停顿，期间经过的区域也会全部填满，图章列也会照原样沿着经过的路径排列。
-- **分镜用纸上的摄影机指示** — 跨两个分镜格的摄影机运动，会在每一格写出各自的区间（例如 1f-73f T.B、74f-144f T.B）。只有一格的镜头，会用与摄影表相同的说法写出整个镜头。
-- **赛璐珞导出** — 没有名字的分镜块也会用下一个空闲的编号命名文件后导出（项目中的块名保持不变）。按颜色标签筛选时，没有标签的行会从导出列表中去掉。导出窗口的折叠栏一开始就是展开的。
-- **铺底面板的视图快捷键** — 铺在底部的摄影表或查看器上，缩放、旋转快捷键同样有效。
-- **粘贴到 S 行** — 从普通图层复制的帧不会粘贴到 S 行，从 S 行复制的也不会粘贴到普通图层；这时粘贴按钮会变为不可用。
-- **TVPaint 导入** — 当声音文件不在 .tvpp 记录的位置时，会在该文件的文件夹下查找并导入。韩文、假名等图层实例名会按原样导入，图层的混合模式（正片叠底等）也会导入。
-- **图形设备停止时** — 在 Windows 上，如果绘制画面的图形设备停止，会弹出窗口让你选择「保存并重新启动」「不保存并退出」或关闭。
-- **媒体池滚动条** — 媒体池的滚动条在列表视图和图标视图中都始终显示。
-- **工具列表** — 工具设置面板中的工具名显示为一行，放不下时用省略号截短；截短的名字可在工具提示中看到全名。
+- **首次启动时的准备应用** — 新版本首次启动时变长的「准备应用」窗口，恢复到了 11 月 13 日前后的长度。第二次起的启动仍和以前一样短。
+- **导入画稿的内存** — 导入 .tvpp 等文件时，画稿一到就放到会话暂存区（磁盘）并释放内存。画布所在帧的画稿保持不变。打开一个有 220 张画稿的 .tvpp 时，「本应用占用的内存」从 2.26 GB 降到 0.96 GB（主 PC）。代价是导入要多花约 2 秒。
+- **修改过的赛璐珞的内存** — 打开文件后，在绿色带填充过一次的帧的赛璐珞上画一笔，内存标签页的「画稿」只增加画过的部分，而不是整张赛璐珞。打开文件时所在帧的赛璐珞目前仍和以前一样。
+- **大量修改后的保存** — 修改了许多赛璐珞后保存时，应用内存大幅上升的情况减轻了。修改 220 张赛璐珞后保存，原来上升 2.0–2.3 GB，现在约上升 0.64 GB（主 PC）。
+- **图块池** — 绘图引擎不再为了重复使用而囤积已释放的图块内存，而是立即归还。内存标签页中的「绘图引擎图块池」一行已移除。
+- **字体** — 图形引擎直接在原处读取应用自带的字体文件，不再保留副本。在 Windows 上，「本应用占用的内存」减少了约 24 MB。Android 与以前相同。
+- **帧图像** — 手一停下，播放用的帧图像也会折叠以减少图形内存，内存标签页中的「帧图像」一行会显示实际占用的大小。折叠腾出的空间会让绿色带填充得更多。
+- **快捷键的命令键** — 无论在哪台设备上接哪种键盘，快捷键的命令键用 Ctrl 按还是用 ⌘（Windows 键盘上的 Win 键）按，效果都一样。无需设置。在 Mac 上 Ctrl+Z 也能撤销。
 
 ## 问题修正
 
-- 修正了用撤销把变换框的每一步都撤回后，仍残留更改、选区虚线一直显示为红色的问题。
-- 修正了撤销记录达到上限后，拖动图章这类由多步组成的操作无法一次撤销的问题。
-- 修正了拖动放置图章时最后一个图章丢失的问题。
-- 修正了选中多个块后一起编辑（例如拉长格数）时，选区矩形不跟随块的问题。
-- 修正了移动到因编辑而清空了绿色带的帧时，图像虽然显示、绿色带却不再填充的问题。
-- 修正了改变画布尺寸使基准点移动时，效果的点（径向模糊的中心、赛璐珞编号的位置等）不跟随图像的问题。
-- 修正了拖动模糊数值期间内存每次增加数 GB、删除模糊后也不回落的问题。
-- 修正了在导出窗口的预览中切换帧时，下一张图像到来之前显示黑屏，以及新出现的加载圈显示成小点的问题。
-- 修正了在导出窗口中把 XDTS 摄影表只选中割时显示为空白画面的问题。
-- 修正了开启降噪录音的镜次放置得稍晚、与口型错开的问题。
-- 修正了删除多个块的颜色时进度窗口看起来停住的问题，现在百分比会逐步增加。
-- 修正了把媒体池列表横向滚到最边上再加宽面板时，栏位和滚动条偏移后留在原处的问题。
-- 修正了打开子工具列表时，工具设置面板下方的行（连续填充、渐变等）被截断、滚动也到不了的问题。
+- 修正了在打开查看器的状态下切换到其他项目标签（已有的标签或用 Ctrl+N 新建的标签）再回来时，页码不变但画面显示为第一页的问题。现在主查看器和副查看器都会回到原来显示的页面和缩放。

diff --git a/launch/1096/ja/whats_new.md b/launch/1096/ja/whats_new.md
@@ -1,0 +1,20 @@
+## このバージョンの変更点
+
+## 新機能
+
+- **入力インスペクタの Wintab 記録** — Windows で Wintab からペンを受け取り始めるときにたどった段階が、入力インスペクタ(Debug メニュー)に残ります。ペンが止まったときは、その記録でどこで止まったかを確かめられます。
+
+## 改善
+
+- **初回起動時のアプリ準備** — 新しいビルドを初めて起動したときに長くなっていた「アプリ準備」の画面が、11月13日ごろの長さに戻りました。2回目以降の起動はこれまでどおり短いままです。
+- **読み込んだ絵のメモリ** — .tvpp などを読み込むと、絵が届くそばからセッション作業領域(ディスク)に下ろされ、RAM を空けます。キャンバスが立っているフレームの絵はそのまま残します。絵が220枚の .tvpp を開いておくと、「このアプリのRAM使用量」が 2.26 GB から 0.96 GB になりました(メイン PC)。そのかわり読み込みが2秒ほど長くかかります。
+- **直したセルのメモリ** — ファイルを開いたあと緑の帯が一度たまったフレームのセルに線を引くと、メモリタブの「作画」はセル1枚分ではなく、引いた部分の分だけ増えます。ファイルを開いたときに立っていたフレームのセルは、まだこれまでと同じです。
+- **たくさん直したあとの保存** — セルをたくさん直したあとの保存中に、アプリのメモリが大きく増えていたのを抑えました。セル220枚を直したあとの保存で 2.0–2.3 GB 増えていたものが、0.64 GB ほどの増加になります(メイン PC)。
+- **タイルプール** — 描画エンジンは手放したタイルのメモリを使い回すために溜めておかず、すぐに返します。メモリタブの「描画エンジンのタイルプール」の行はなくなりました。
+- **フォント** — グラフィックエンジンがアプリに入っているフォントファイルをコピーせず、その場で読みます。Windows で「このアプリのRAM使用量」が約 24 MB 減りました。Android はこれまでと同じです。
+- **フレーム画像** — 手を止めると再生用のフレーム画像もたたんでグラフィックメモリを減らし、メモリタブの「フレーム画像」の行は実際に持っている大きさを示します。たたんで空いた分だけ緑の帯がさらにたまります。
+- **ショートカットのコマンドキー** — どの機器にどのキーボードをつないでも、ショートカットのコマンドキーは Ctrl で押しても ⌘(Windows キーボードでは Win キー)で押しても同じ動作をします。設定はいりません。Mac でも Ctrl+Z で取り消せます。
+
+## 不具合の修正
+
+- ビューアを出したまま別のプロジェクトタブ(既存のタブ・Ctrl+N で作ったタブ)に移って戻ると、ページ番号はそのままなのに絵は最初のページが見えていた問題を修正しました。メイン・サブのどちらのビューアも、見ていたページとズームのまま戻ります。

diff --git a/launch/1096/fr/whats_new.md b/launch/1096/fr/whats_new.md
@@ -1,0 +1,20 @@
+## Nouveautés de cette version
+
+## Nouveau
+
+- **Le relevé Wintab dans l'Inspecteur d'entrée** — sous Windows, les étapes par lesquelles l'application est passée en commençant à recevoir le stylet par Wintab sont gardées dans l'Inspecteur d'entrée (menu Debug). Si le stylet s'arrête, ce relevé montre où il s'est arrêté.
+
+## Améliorations
+
+- **Préparation de l'application au premier lancement** — la fenêtre « Préparation de l'application », qui s'était allongée au premier lancement d'une nouvelle version, retrouve à peu près sa durée d'autour du 13 novembre. Les lancements suivants restent courts comme avant.
+- **Mémoire des dessins importés** — à l'import d'un fichier comme un .tvpp, chaque dessin est déposé dans l'Espace de session (le disque) dès son arrivée et libère sa RAM. Les dessins de l'image sur laquelle se tient le canevas restent tels quels. Avec un .tvpp de 220 dessins ouvert, « Cette application, en RAM » est passée de 2,26 Go à 0,96 Go (le PC principal). En échange, l'import prend environ deux secondes de plus.
+- **Mémoire d'un cellulo modifié** — après l'ouverture d'un fichier, un trait sur un cellulo d'une image que la bande verte a remplie une fois ne fait grandir « Dessins » dans l'onglet mémoire que de la partie tracée, et non du cellulo entier. Les cellulos de l'image où l'on se tenait à l'ouverture du fichier restent comme avant pour l'instant.
+- **Enregistrer après de nombreuses retouches** — la mémoire de l'application monte beaucoup moins pendant l'enregistrement après la retouche de nombreux cellulos. L'enregistrement après la retouche de 220 cellulos montait de 2,0 à 2,3 Go ; il monte maintenant d'environ 0,64 Go (le PC principal).
+- **Réserve de tuiles** — le moteur de dessin ne met plus de côté la mémoire des tuiles qu'il a libérées pour la réutiliser, et la rend tout de suite. La ligne « Réserve de tuiles du moteur de dessin » de l'onglet mémoire a disparu.
+- **Polices** — le moteur graphique lit les polices fournies avec l'application là où elles se trouvent, sans en garder une copie. Sous Windows, « Cette application, en RAM » a baissé d'environ 24 Mo. Android reste comme avant.
+- **Images composées** — dès que la main se repose, les images composées de la lecture sont elles aussi repliées et prennent moins de mémoire graphique, et la ligne « Images composées » de l'onglet mémoire montre la taille qu'elles occupent vraiment. La bande verte se remplit d'autant plus dans la place libérée.
+- **La touche de commande des raccourcis** — quel que soit le clavier branché sur quel appareil, la touche de commande d'un raccourci fait la même chose qu'on l'appuie en Ctrl ou en ⌘ (la touche Win d'un clavier Windows). Il n'y a rien à régler. Ctrl+Z annule aussi sur Mac.
+
+## Corrections
+
+- Avec une visionneuse ouverte, aller dans un autre onglet de projet (un onglet existant ou un onglet créé avec Ctrl+N) puis revenir gardait le numéro de page mais montrait l'image de la première page. Les visionneuses principale et secondaire reviennent maintenant à la page et au zoom qu'elles montraient.

diff --git a/launch/1096/ko/whats_new.md b/launch/1096/ko/whats_new.md
@@ -1,0 +1,20 @@
+## 이번 버전에서 바뀐 것
+
+## 새 기능
+
+- **입력 인스펙터의 Wintab 기록** — Windows 에서 Wintab 으로 펜을 받기 시작할 때 거친 단계가 입력 인스펙터(Debug 메뉴)에 남습니다. 펜이 멈추면 그 기록으로 어디서 섰는지 볼 수 있습니다.
+
+## 개선
+
+- **처음 켤 때의 앱 준비** — 새 빌드를 처음 켤 때 길어졌던 「앱 준비」 창이 11월 13일 무렵 길이로 돌아왔습니다. 두 번째 실행부터는 전처럼 짧습니다.
+- **들여온 그림의 메모리** — .tvpp 같은 파일을 들여오면 그림이 들어오는 대로 세션 작업 공간(디스크)으로 내려가고 RAM 을 놓습니다. 캔버스가 서 있는 프레임의 그림은 그대로 둡니다. 그림 220장짜리 .tvpp 를 열어 두면 「이 앱이 쓰는 RAM」이 2.26 GB 에서 0.96 GB 가 됐습니다(메인 PC). 대신 들여오기가 2초쯤 더 걸립니다.
+- **고친 셀의 메모리** — 파일을 연 뒤 초록 띠가 한 번 찬 프레임의 셀에 획을 그으면, 메모리 탭의 「그림」이 셀 한 장만큼이 아니라 그은 부분만큼만 늡니다. 파일을 열 때 서 있던 프레임의 셀은 아직 전과 같습니다.
+- **많이 고친 뒤의 저장** — 셀을 많이 고친 뒤 저장하는 동안 앱의 메모리가 크게 오르던 것을 줄였습니다. 셀 220장을 고친 뒤 저장할 때 2.0–2.3 GB 오르던 것이 0.64 GB 쯤 오릅니다(메인 PC).
+- **타일 풀** — 그리기 엔진이 놓은 타일 메모리를 다시 쓰려고 쌓아 두지 않고 바로 돌려줍니다. 메모리 탭의 「그리기 엔진 타일 풀」 줄은 없어졌습니다.
+- **글꼴** — 그래픽 엔진이 앱에 든 글꼴 파일을 복사해 두지 않고 그 자리에서 읽습니다. Windows 에서 「이 앱이 쓰는 RAM」이 약 24 MB 줄었습니다. 안드로이드는 전과 같습니다.
+- **프레임 이미지** — 손을 쉬면 재생용 프레임 이미지도 접어 그래픽 메모리를 줄이고, 메모리 탭의 「프레임 이미지」 줄은 실제로 쥔 크기를 보입니다. 접어서 생긴 자리만큼 초록 띠가 더 찹니다.
+- **단축키의 명령 키** — 어느 기기에 어느 키보드를 붙여도, 단축키의 명령 키를 Ctrl 로 눌러도 ⌘(Windows 키보드의 Win 키)로 눌러도 같은 일을 합니다. 설정은 따로 없습니다. 맥에서도 Ctrl+Z 가 실행 취소입니다.
+
+## 버그 수정
+
+- 뷰어를 띄운 채 다른 프로젝트 탭(있던 탭 · Ctrl+N 으로 만든 탭)에 갔다 돌아오면, 쪽 번호는 그대로인데 그림은 첫 쪽이 보이던 것을 고쳤습니다. 이제 메인 · 서브 뷰어 모두 보던 쪽과 줌 그대로 돌아옵니다.

diff --git a/launch/1096/en/whats_new.md b/launch/1096/en/whats_new.md
@@ -1,0 +1,20 @@
+## What's new in this version
+
+## New
+
+- **The Wintab record in the Input Inspector** — on Windows, the steps the app went through as it began taking the pen from Wintab are kept in the Input Inspector (the Debug menu). If the pen stops, that record shows where it stopped.
+
+## Improved
+
+- **Preparing the app on the first launch** — the "Preparing app" window, which had grown longer on a new build's first launch, is back to about its length around November 13. Later launches stay short as before.
+- **Memory of imported drawings** — when you import a file such as a .tvpp, each drawing is put down to the session scratch (the disk) as it arrives and lets go of its RAM. The drawings of the frame the canvas stands on stay as they are. With a .tvpp of 220 drawings open, "This app, in RAM" went from 2.26 GB to 0.96 GB (the main PC). In exchange, the import takes about two seconds longer.
+- **Memory of an edited cel** — after opening a file, a stroke on a cel of a frame the green band has filled once grows "Drawings" in the memory tab by only the part you drew, not by the whole cel. Cels of the frame that stood when the file was opened are the same as before for now.
+- **Saving after many edits** — the app's memory no longer climbs as far while saving after many cels were edited. Saving after editing 220 cels used to climb by 2.0–2.3 GB and now climbs by about 0.64 GB (the main PC).
+- **Tile pool** — the drawing engine no longer stores tile memory it let go of to reuse it, and gives it back at once. The "Drawing engine tile pool" row in the memory tab is gone.
+- **Fonts** — the graphics engine reads the fonts bundled with the app where they lie instead of keeping a copy. On Windows, "This app, in RAM" fell by about 24 MB. Android is as before.
+- **Frame pictures** — once your hand rests, the frame pictures for playback are folded too, using less graphics memory, and the "Frame pictures" row in the memory tab shows the size they really hold. The green band fills further into the room the folding made.
+- **The command key of shortcuts** — whatever keyboard is on whatever device, a shortcut's command key does the same whether you press it as Ctrl or as ⌘ (the Win key on a Windows keyboard). There is nothing to set. Ctrl+Z undoes on a Mac too.
+
+## Fixed
+
+- With a viewer open, going to another project tab (an existing tab or one made with Ctrl+N) and coming back kept the page number but showed the first page's picture. Both the main and the sub viewer now come back at the page and zoom they showed.

diff --git a/launch/1096/zhHans/whats_new.md b/launch/1096/zhHans/whats_new.md
@@ -1,0 +1,20 @@
+## 本版本的变化
+
+## 新功能
+
+- **输入检查器中的 Wintab 记录** — 在 Windows 上，应用开始通过 Wintab 接收手写笔时经过的步骤会保留在输入检查器（Debug 菜单）中。手写笔停住时，可以用这份记录查看停在了哪里。
+
+## 改进
+
+- **首次启动时的准备应用** — 新版本首次启动时变长的「准备应用」窗口，恢复到了 11 月 13 日前后的长度。第二次起的启动仍和以前一样短。
+- **导入画稿的内存** — 导入 .tvpp 等文件时，画稿一到就放到会话暂存区（磁盘）并释放内存。画布所在帧的画稿保持不变。打开一个有 220 张画稿的 .tvpp 时，「本应用占用的内存」从 2.26 GB 降到 0.96 GB（主 PC）。代价是导入要多花约 2 秒。
+- **修改过的赛璐珞的内存** — 打开文件后，在绿色带填充过一次的帧的赛璐珞上画一笔，内存标签页的「画稿」只增加画过的部分，而不是整张赛璐珞。打开文件时所在帧的赛璐珞目前仍和以前一样。
+- **大量修改后的保存** — 修改了许多赛璐珞后保存时，应用内存大幅上升的情况减轻了。修改 220 张赛璐珞后保存，原来上升 2.0–2.3 GB，现在约上升 0.64 GB（主 PC）。
+- **图块池** — 绘图引擎不再为了重复使用而囤积已释放的图块内存，而是立即归还。内存标签页中的「绘图引擎图块池」一行已移除。
+- **字体** — 图形引擎直接在原处读取应用自带的字体文件，不再保留副本。在 Windows 上，「本应用占用的内存」减少了约 24 MB。Android 与以前相同。
+- **帧图像** — 手一停下，播放用的帧图像也会折叠以减少图形内存，内存标签页中的「帧图像」一行会显示实际占用的大小。折叠腾出的空间会让绿色带填充得更多。
+- **快捷键的命令键** — 无论在哪台设备上接哪种键盘，快捷键的命令键用 Ctrl 按还是用 ⌘（Windows 键盘上的 Win 键）按，效果都一样。无需设置。在 Mac 上 Ctrl+Z 也能撤销。
+
+## 问题修正
+
+- 修正了在打开查看器的状态下切换到其他项目标签（已有的标签或用 Ctrl+N 新建的标签）再回来时，页码不变但画面显示为第一页的问题。现在主查看器和副查看器都会回到原来显示的页面和缩放。
